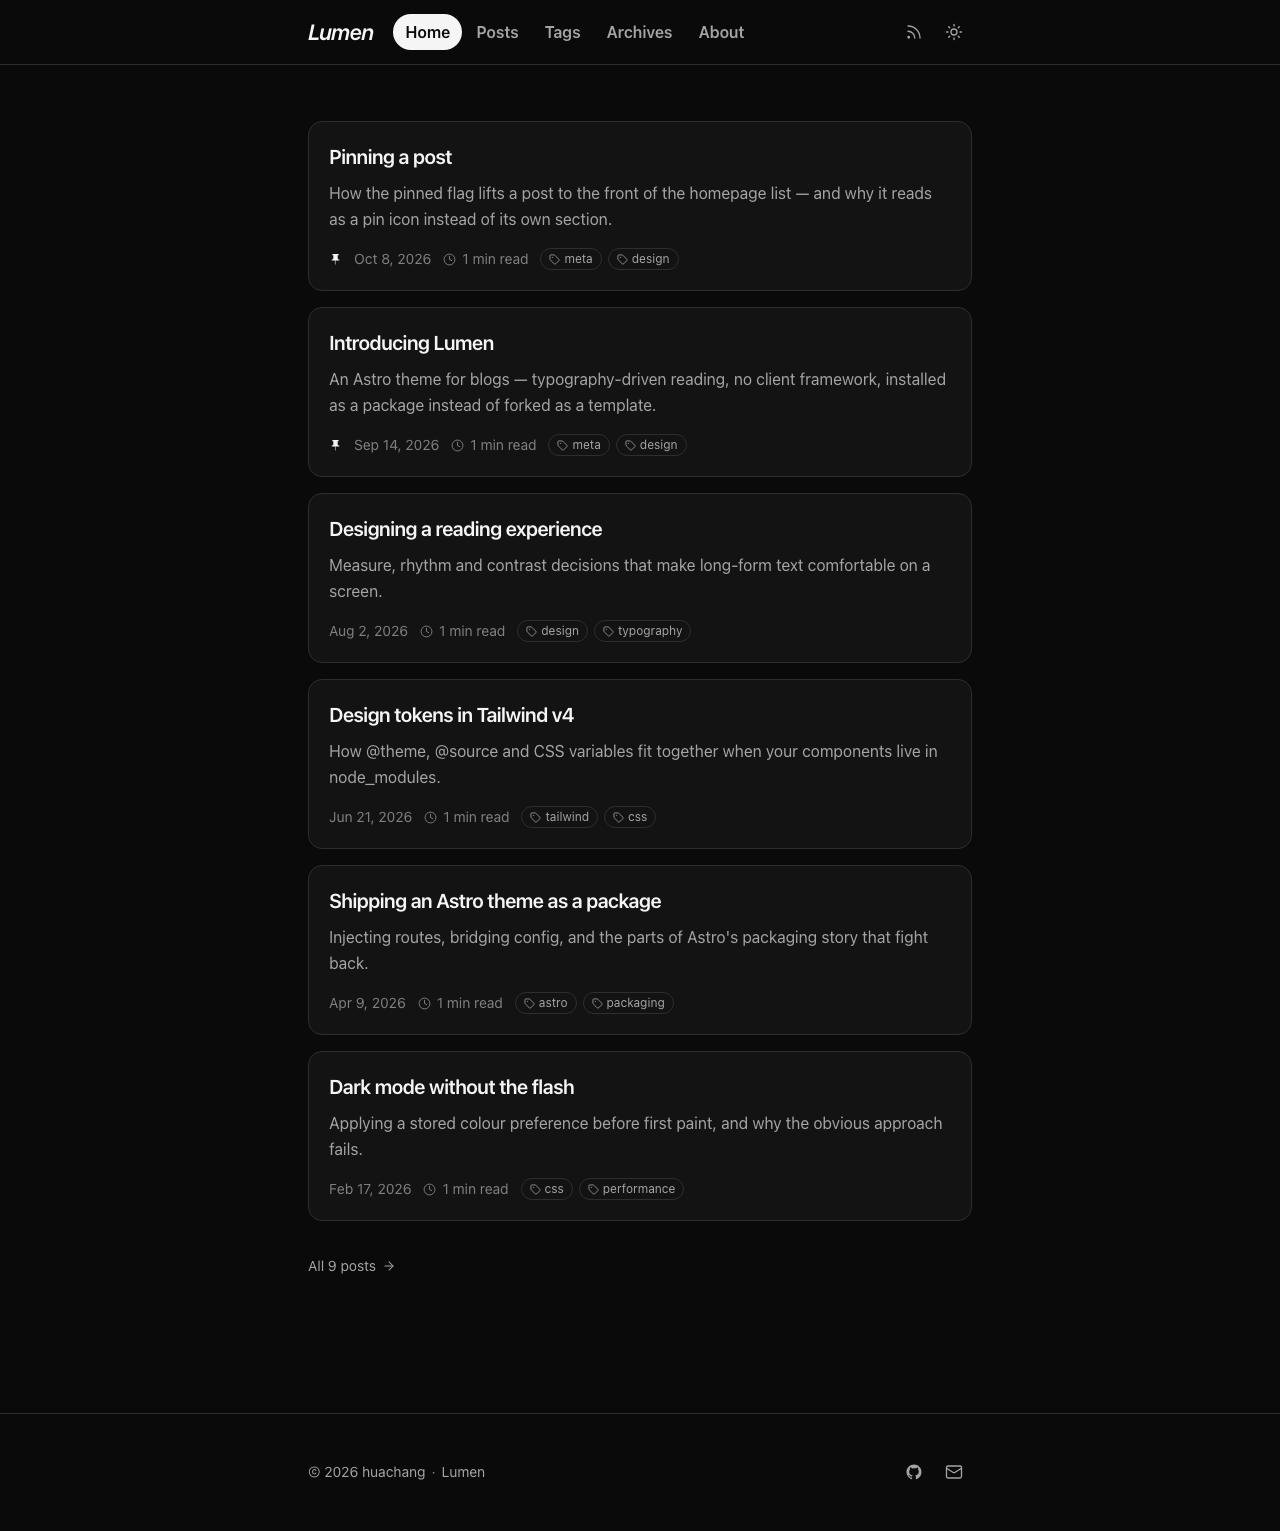
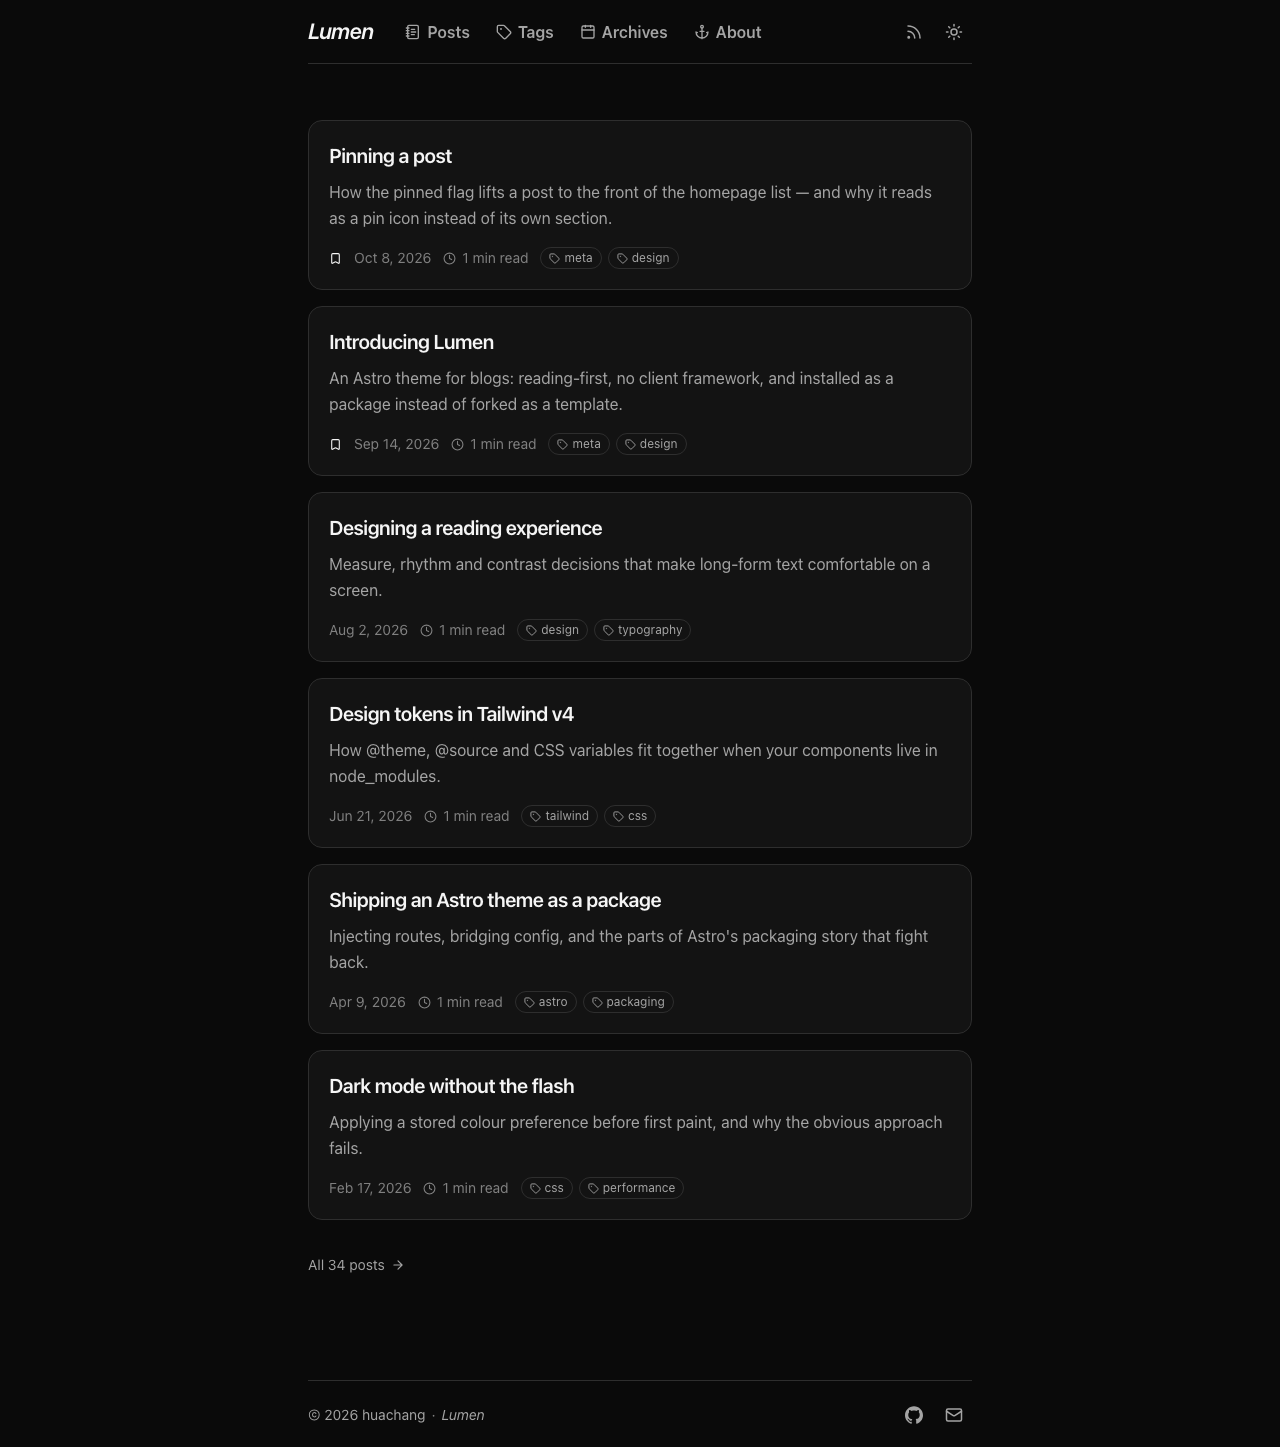
docs: refresh the homepage shots and drop the post and about shots
The homepage pair was stale: it still showed the nav from before the
icons, a Home entry that no longer exists, the solid pushpin badge, and
the long version of the Introducing Lumen copy.

The post-dark and about-light images are gone, along with the lines that
referenced them.

diff --git a/README.md b/README.md
@@ -9,10 +9,6 @@ Lumen is built for reading, and costs almost nothing to load.
 | --- | --- |
 | ![Lumen homepage, light](docs/home-light.png) | ![Lumen homepage, dark](docs/home-dark.png) |
 
-![Lumen post page in dark mode](docs/post-dark.png)
-
-![The author card on the about page](docs/about-light.png)
-
 ## Layout
 
 ```
